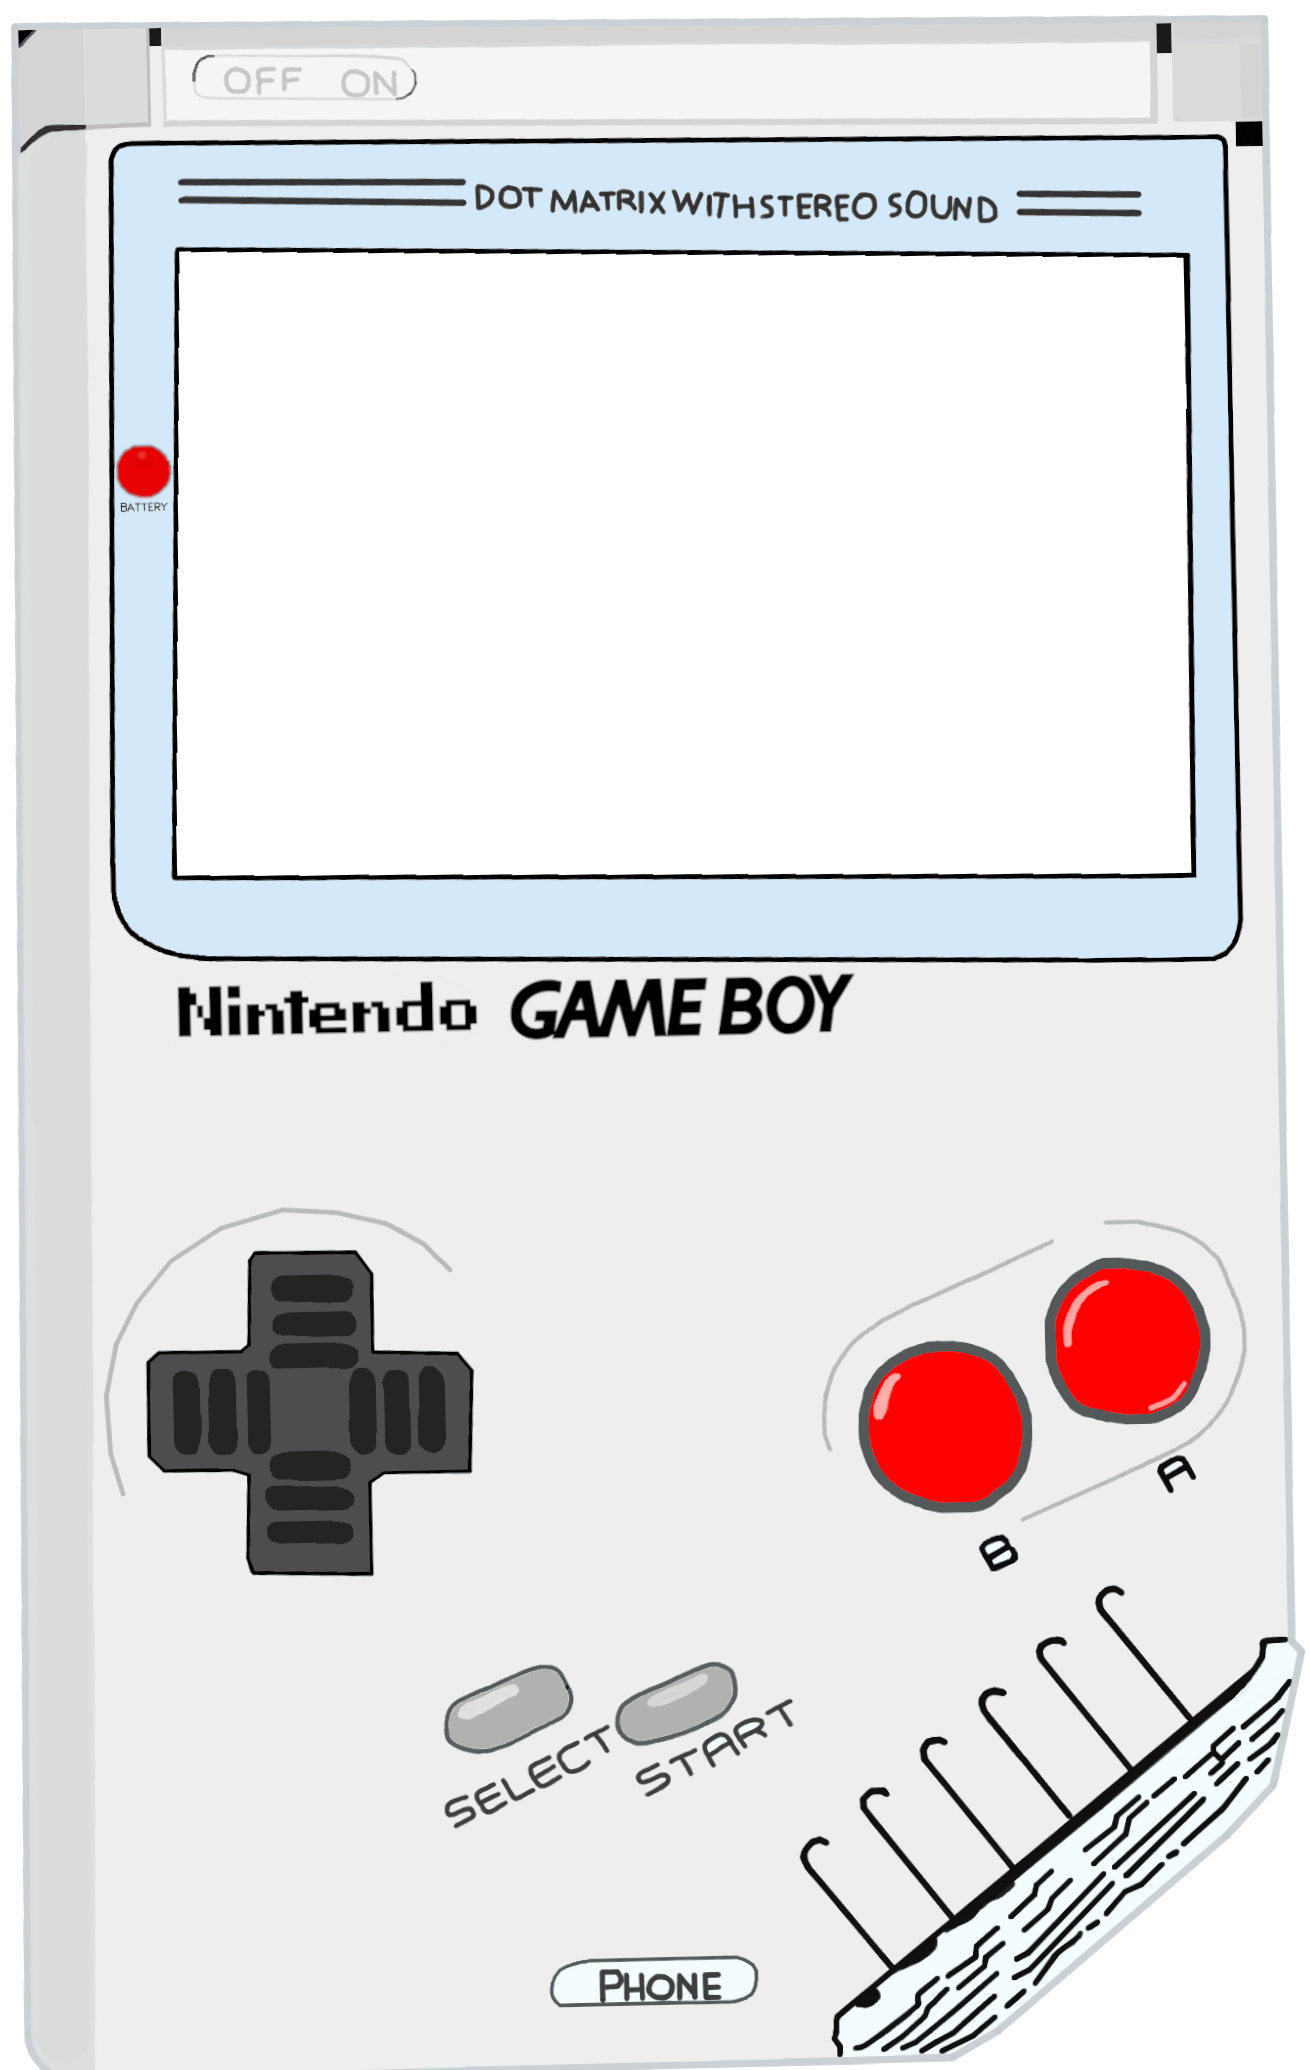
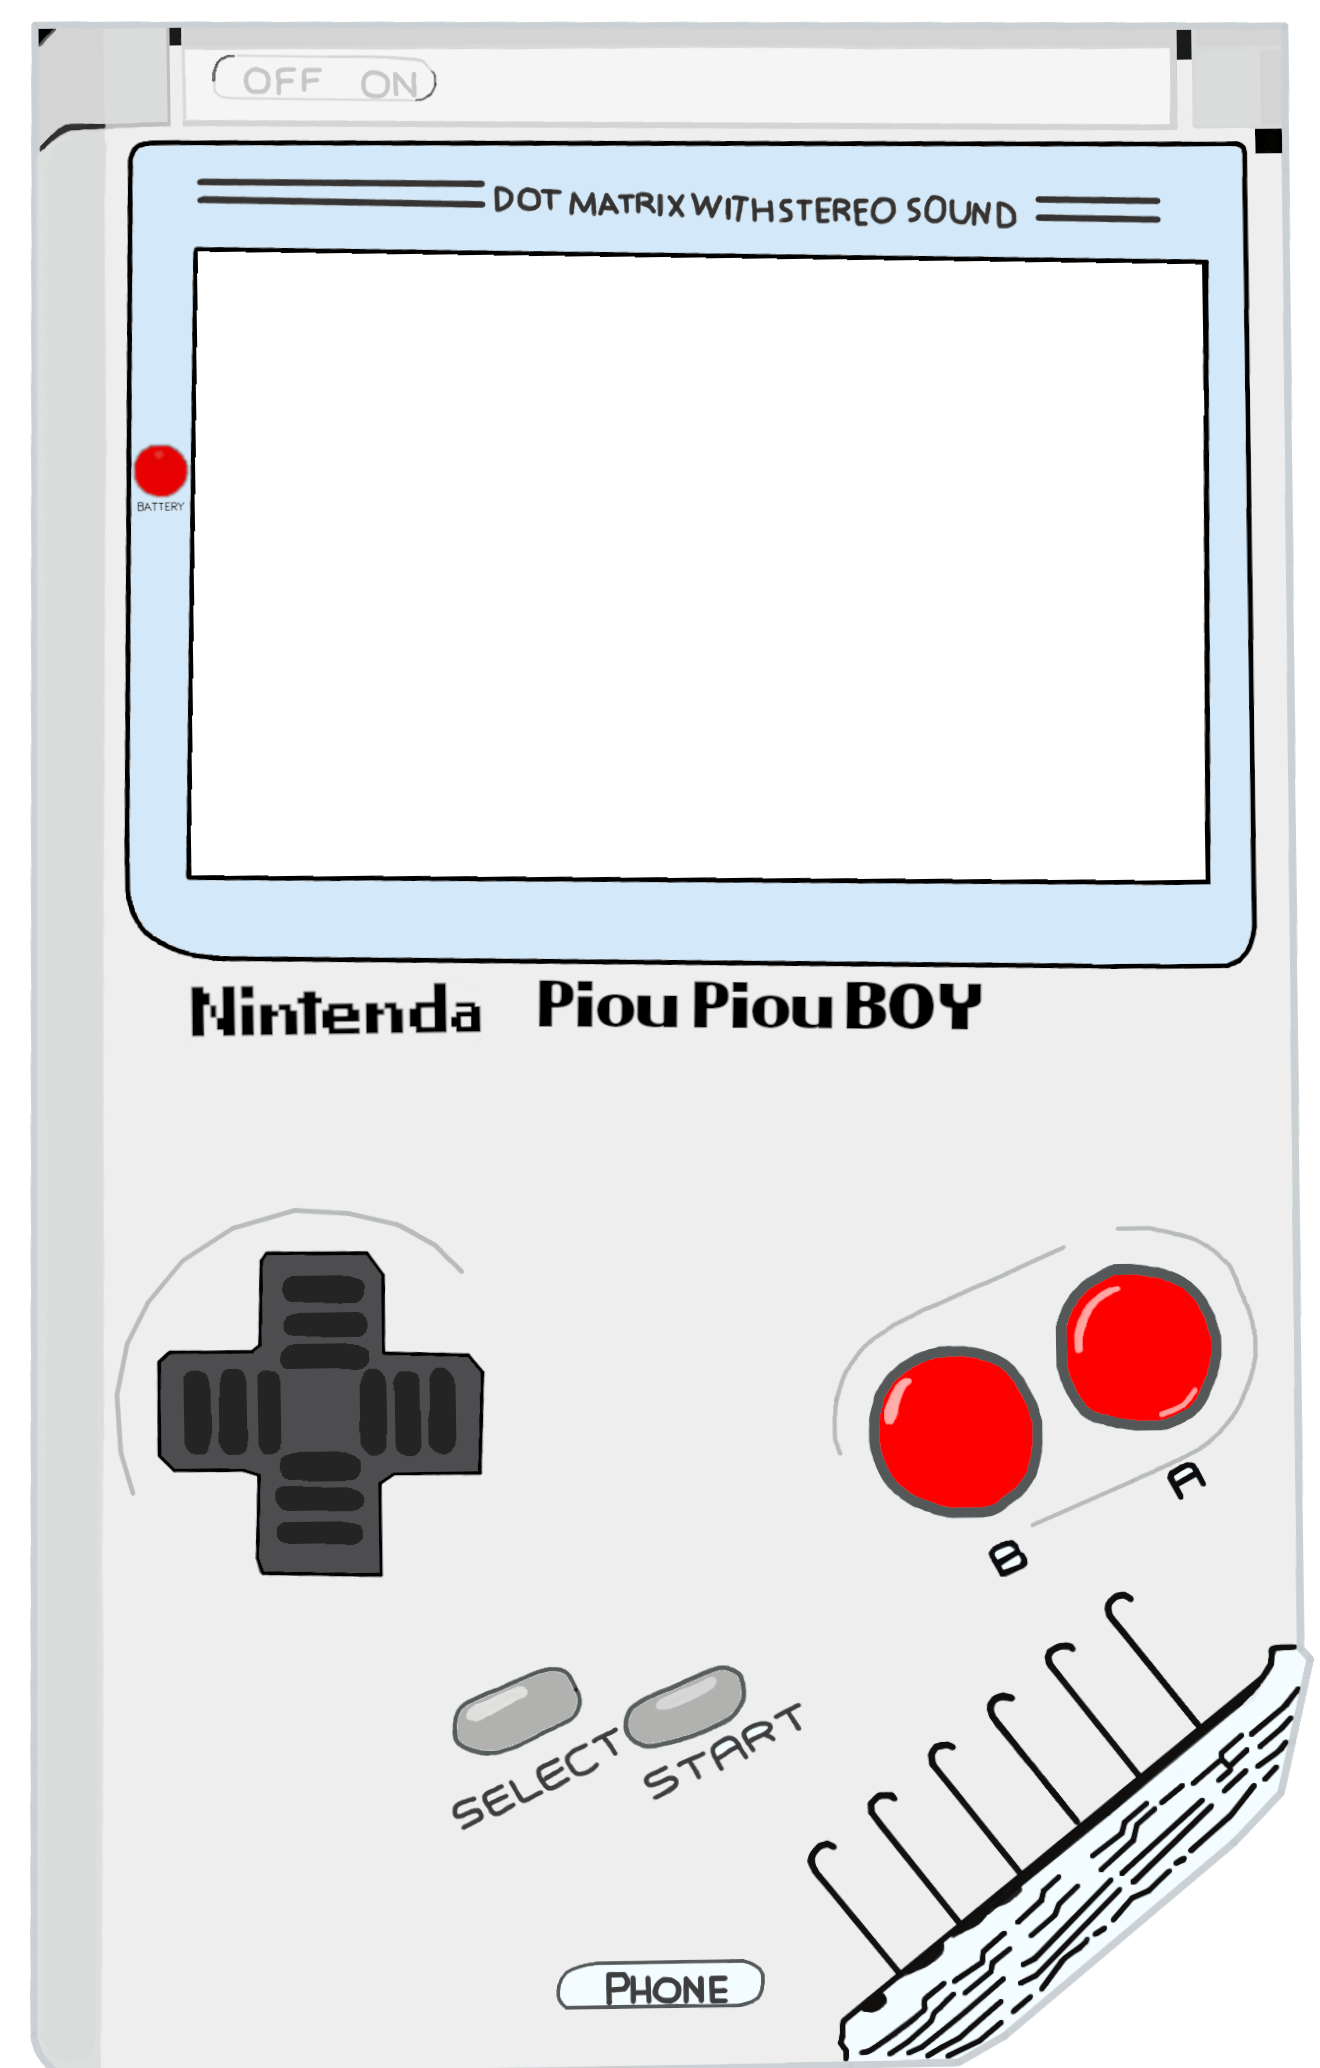
Ajout img pour la Réal
changement d'image gameboy a l'accueil

diff --git a/Realisation.html b/Realisation.html
@@ -39,8 +39,8 @@
                 </div>
                 <div class="content">
                     <div>
-                        <h2>Image title</h2>
-                        <p>Lorem ipsum dolor sit amet consectetur adipisicing elit.</p>
+                        <h2>Modelisation 3D</h2>
+                        <p>Création d'une orange sur Blender.</p>
                     </div>
                 </div>
             </div>
@@ -50,8 +50,30 @@
                 </div>
                 <div class="content">
                     <div>
-                        <h2>Image title</h2>
-                        <p>Lorem ipsum dolor sit amet consectetur adipisicing elit.</p>
+                        <h2>Retouche photos</h2>
+                        <p>Retouche de photos sur le logiciel Gimp.</p>
+                    </div>
+                </div>
+            </div>
+            <div class="box">
+                <div class="imgBx">
+                    <img src="img/logo.png">
+                </div>
+                <div class="content">
+                    <div>
+                        <h2>Création de logo</h2>
+                        <p>Création de logo sur le logiciel Inkscape.</p>
+                    </div>
+                </div>
+            </div>
+            <div class="box">
+                <div class="imgBx">
+                    <img src="img/packoffice.jpg">
+                </div>
+                <div class="content">
+                    <div>
+                        <h2>pack office</h2>
+                        <p>Découverte des fonctionnalités du pack Office.</p>
                     </div>
                 </div>
             </div>
@@ -61,8 +83,8 @@
                 </div>
                 <div class="content">
                     <div>
-                        <h2>Image title</h2>
-                        <p>Lorem ipsum dolor sit amet consectetur adipisicing elit.</p>
+                        <h2>Modelisation 3D</h2>
+                        <p>Création d'une orange sur Blender.</p>
                     </div>
                 </div>
             </div>
@@ -72,8 +94,30 @@
                 </div>
                 <div class="content">
                     <div>
-                        <h2>Image title</h2>
-                        <p>Lorem ipsum dolor sit amet consectetur adipisicing elit.</p>
+                        <h2>Retouche photos</h2>
+                        <p>Retouche de photos sur le logiciel Gimp.</p>
+                    </div>
+                </div>
+            </div>
+            <div class="box">
+                <div class="imgBx">
+                    <img src="img/logo.png">
+                </div>
+                <div class="content">
+                    <div>
+                        <h2>Création de logo</h2>
+                        <p>Création de logo sur le logiciel Inkscape.</p>
+                    </div>
+                </div>
+            </div>
+            <div class="box">
+                <div class="imgBx">
+                    <img src="img/packoffice.jpg">
+                </div>
+                <div class="content">
+                    <div>
+                        <h2>pack office</h2>
+                        <p>Découverte des fonctionnalités du pack Office.</p>
                     </div>
                 </div>
             </div>

diff --git a/css/Accueil.css b/css/Accueil.css
@@ -255,7 +255,7 @@
 iframe {
 	width: 727px;
 	height: 501px;
-	margin-left: -812px;
+	margin-left: -806px;
 	margin-right: auto;
 	position: absolute;
 	margin-top: 165px;
@@ -264,10 +264,10 @@ iframe {
 .mario {
 	width: 727px;
 	height: 501px;
-	margin-left: 126px;
+	margin-left: 135px;
 	margin-right: auto;
 	position: absolute;
-	margin-top: -1324px;
+	margin-top: -1312px;
 }
 
 /* Partie Buttons Play */
@@ -291,10 +291,10 @@ button {
 
 .jaune {
 	border-radius: 50%;
-	margin-top: -581px;
-	margin-left: 754px;
+	margin-top: -572px;
+	margin-left: 763px;
 	padding: 10px;
-	width: 110px;
+	width: 100px;
 	height: 110px;
 	background-color: #f00;
 	position: absolute;
@@ -303,13 +303,12 @@ button {
 
 .bleu {
 	border-radius: 50%;
-	margin-top: -520px;
-	margin-left: 623px;
+	margin-top: -510px;
+	margin-left: 627px;
 	padding: 10px;
-	width: 110px;
+	width: 100px;
 	height: 110px;
 	background-color: #f00;
-	color: white;
 	position: absolute;
 	border: none;
 }

diff --git a/css/Realisation.css b/css/Realisation.css
@@ -19,6 +19,7 @@ font-family: 'Montserrat', sans-serif;
     width: 1100px;
     display: flex;
     flex-wrap: wrap;
+    margin-bottom: -32%;
 }
 
 .container .box {
@@ -87,8 +88,9 @@ font-family: 'Montserrat', sans-serif;
     transition: 0.5s;
     text-transform: uppercase;
     margin-bottom: 5px;
-    font-size: 20px;
+    font-size: 22px;
     transform: translateY(200px);
+    font-family: Permanent Marker;
 }
 .container .box:hover .content h2 {
     transform: translateY(0);
@@ -100,6 +102,7 @@ font-family: 'Montserrat', sans-serif;
     transform: translateY(200px);
     transition: 0.5s;
     font-size: 14px;
+    font-family: Permanent Marker;
 }
 
 .container .box:hover .content p {
